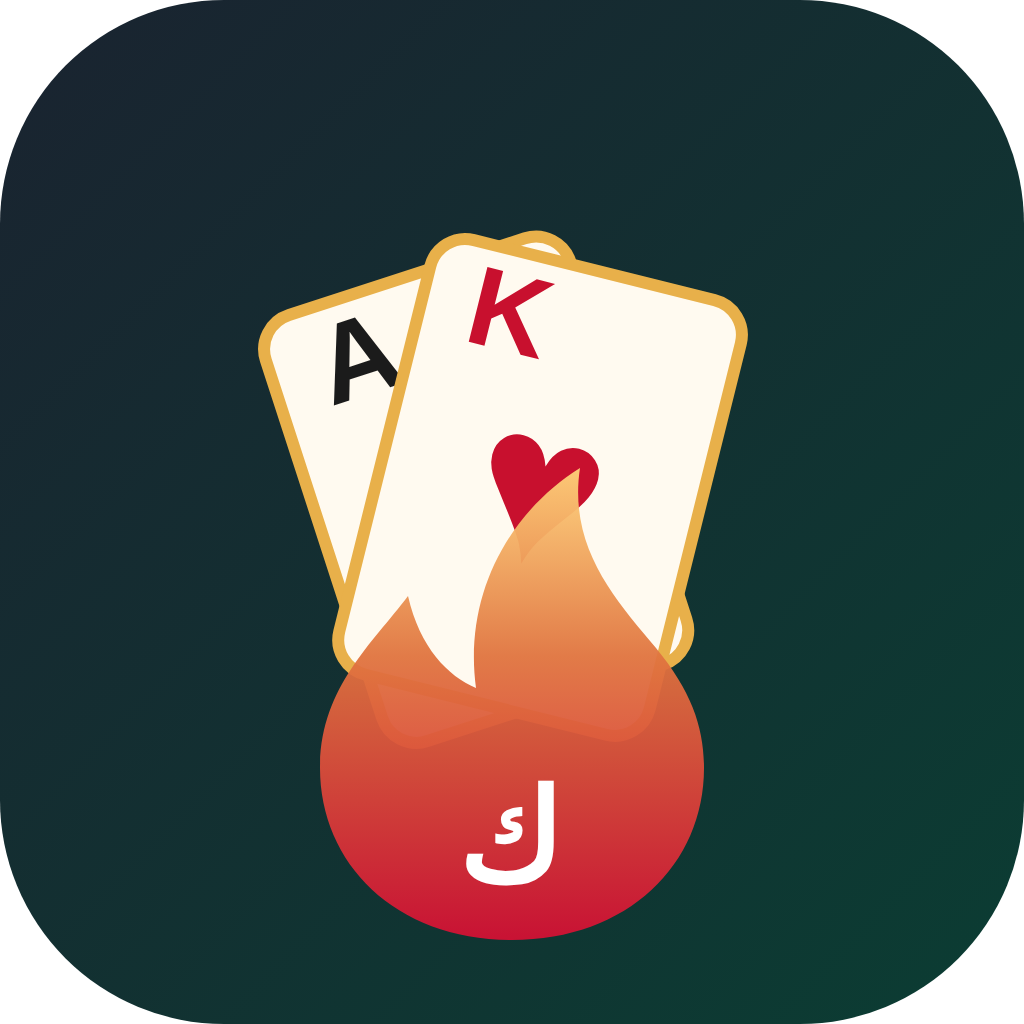
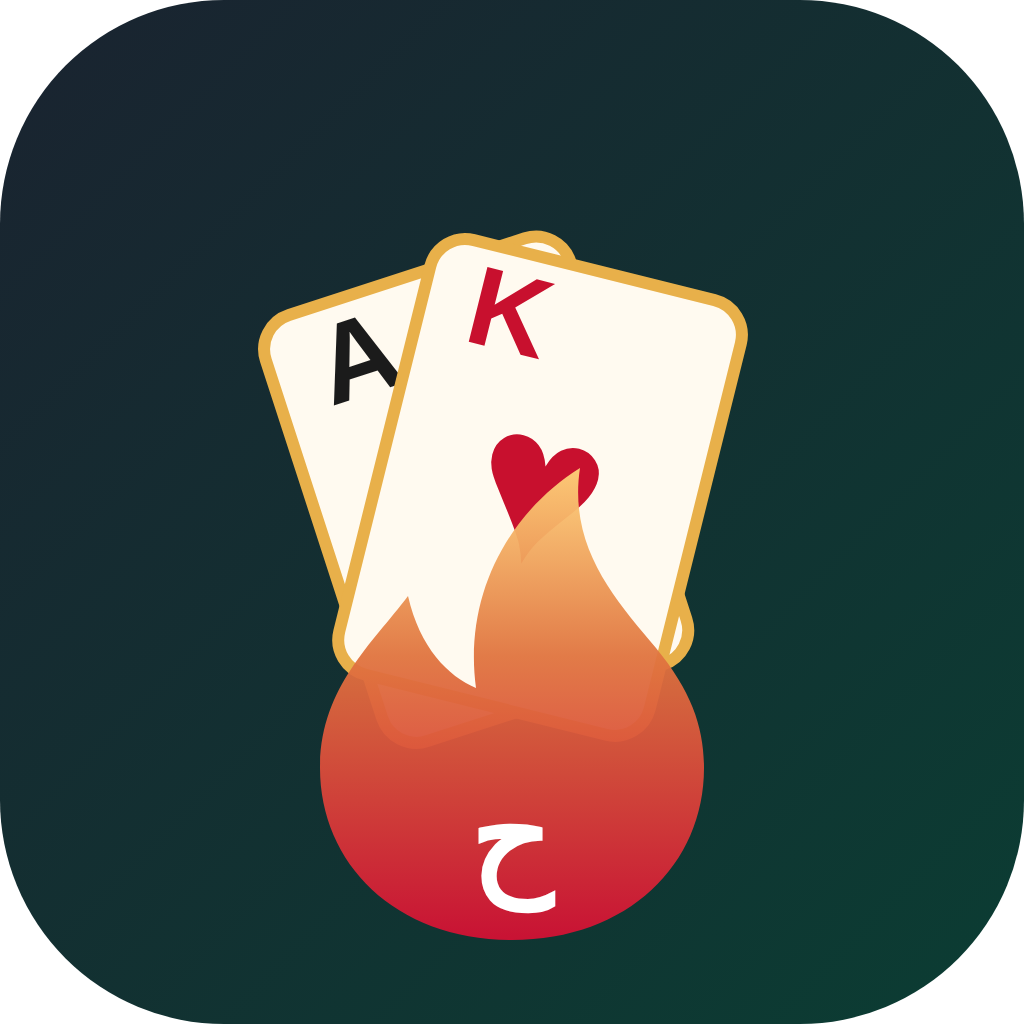
Rename app to حريق قدللة
Claude-Session: https://claude.ai/code/session_01NgcjBUPisNYz6LTNJDf4r9

Changed region(s): [[0.4375, 0.75, 0.5625, 0.9062]]

diff --git a/koshteena/public/style.css b/koshteena/public/style.css
@@ -1,4 +1,4 @@
-/* كوشتينة – الحريق السوداني | هوية سودانية عصرية */
+/* حريق قدللة – الكوتشينة السودانية | هوية سودانية عصرية */
 :root {
   --night: #10161f;
   --night-2: #1a2330;
@@ -76,7 +76,7 @@ input { font: inherit; }
 .logo { text-align: center; margin-top: 2vh; }
 .logo-fan { position: relative; width: 190px; height: 130px; margin: 0 auto 6px; }
 .logo-fan .card { position: absolute; left: 50%; bottom: 0; transform-origin: 50% 120%; --cw: 66px; }
-.logo h1 { font-family: 'Reem Kufi', 'Cairo', sans-serif; font-size: 54px; margin: 0; line-height: 1.1; color: var(--gold-2); text-shadow: 0 3px 0 #7a4a10, 0 8px 30px rgba(232, 176, 74, .35); letter-spacing: 1px; }
+.logo h1 { font-family: 'Reem Kufi', 'Cairo', sans-serif; font-size: 46px; margin: 0; line-height: 1.15; white-space: nowrap; color: var(--gold-2); text-shadow: 0 3px 0 #7a4a10, 0 8px 30px rgba(232, 176, 74, .35); letter-spacing: 1px; }
 .logo .sub { font-size: 20px; font-weight: 800; color: var(--sand); margin-top: 2px; }
 .logo .sub b { color: var(--clay-2); }
 .flag-line { height: 5px; width: 140px; margin: 10px auto 0; border-radius: 3px; background: linear-gradient(90deg, var(--red) 0 25%, #fff 25% 50%, #111 50% 75%, var(--green) 75%); }
@@ -133,7 +133,7 @@ input { font: inherit; }
   background-size: auto, auto, auto, 30% 21%;
   box-shadow: inset 0 0 0 3px #f6efe3, inset 0 0 0 5px var(--gold), 0 4px 10px rgba(0, 0, 0, .35);
 }
-.card .back::after { content: 'ك'; position: absolute; inset: 0; display: grid; place-items: center; font-family: 'Reem Kufi', serif; font-weight: 900; color: #5a1010; font-size: calc(var(--cw) * .26); }
+.card .back::after { content: 'ح'; position: absolute; inset: 0; display: grid; place-items: center; font-family: 'Reem Kufi', serif; font-weight: 900; color: #5a1010; font-size: calc(var(--cw) * .26); }
 .card.down { transform: rotateY(180deg); }
 .card .corner { position: absolute; display: flex; flex-direction: column; align-items: center; line-height: .95; font-weight: 900; }
 .card .corner .r { font-size: calc(var(--cw) * .26); letter-spacing: -1px; }
@@ -322,3 +322,4 @@ input { font: inherit; }
 .home-menu input, .join-row input, .name-field input { min-width: 0; width: 100%; }
 .join-row .btn { flex: none; }
 [hidden] { display: none !important; }
+a.btn { color: inherit; }

diff --git a/koshteena/public/app.js b/koshteena/public/app.js
@@ -1,4 +1,4 @@
-// كوشتينة – الحريق السوداني | الواجهة
+// حريق قدللة – الكوتشينة السودانية | الواجهة
 import { analyzeMeld, isJoker, rankLabel, SUIT_SYMBOL, penaltyValue, DEFAULT_SETTINGS } from './shared/engine.js';
 import { bestPlan, jokerSwapTarget, LEVELS } from './shared/ai.js';
 import { QUICK_PHRASES, EMOJIS } from './shared/match.js';
@@ -284,10 +284,10 @@ function inviteLink() {
   return `${base.replace(/\/$/, '')}/?room=${S.view.room.code}`;
 }
 function inviteText() {
-  return `تعال نلعب حريق في كوشتينة 🃏🔥\nكود الغرفة: ${S.view.room.code}\n${inviteLink()}`;
+  return `تعال نلعب حريق قدللة 🃏🔥\nكود الغرفة: ${S.view.room.code}\n${inviteLink()}`;
 }
 $('#shareBtn').onclick = async () => {
-  if (navigator.share) { try { await navigator.share({ title: 'كوشتينة – الحريق السوداني', text: inviteText() }); } catch {} }
+  if (navigator.share) { try { await navigator.share({ title: 'حريق قدللة – الكوتشينة السودانية', text: inviteText() }); } catch {} }
   else copyInvite();
 };
 $('#waBtn').onclick = () => window.open('https://wa.me/?text=' + encodeURIComponent(inviteText()), '_blank');

diff --git a/koshteena/public/index.html b/koshteena/public/index.html
@@ -6,8 +6,8 @@
   <meta name="theme-color" content="#10161f">
   <meta name="apple-mobile-web-app-capable" content="yes">
   <meta name="apple-mobile-web-app-status-bar-style" content="black-translucent">
-  <meta name="description" content="كوشتينة – الحريق السوداني: العب الحريق مع أصحابك أونلاين أو ضد الكمبيوتر">
-  <title>كوشتينة – الحريق السوداني</title>
+  <meta name="description" content="حريق قدللة – الكوتشينة السودانية: العب الحريق مع أصحابك أونلاين أو ضد الكمبيوتر">
+  <title>حريق قدللة – الكوتشينة السودانية</title>
   <link rel="manifest" href="manifest.webmanifest">
   <link rel="icon" href="icon.svg" type="image/svg+xml">
   <link rel="apple-touch-icon" href="icon.svg">
@@ -22,8 +22,8 @@
 <section id="home" class="screen pattern active">
   <div class="logo">
     <div class="logo-fan" id="logoFan"></div>
-    <h1>كوشتينة</h1>
-    <div class="sub">الحريق <b>السوداني</b> 🔥</div>
+    <h1>حريق قدللة</h1>
+    <div class="sub">الكوتشينة <b>السودانية</b> 🔥</div>
     <div class="flag-line"></div>
   </div>
 

diff --git a/koshteena/server/index.js b/koshteena/server/index.js
@@ -1,4 +1,4 @@
-// خادم كوشتينة: ملفات الواجهة + WebSocket للغرف + جدول الترتيب
+// خادم حريق قدللة: ملفات الواجهة + WebSocket للغرف + جدول الترتيب
 import http from 'node:http';
 import fs from 'node:fs';
 import path from 'node:path';
@@ -224,5 +224,5 @@ setInterval(() => {
 }, 30000).unref();
 
 server.listen(PORT, () => {
-  console.log(`🃏 كوشتينة – الحريق السوداني شغال على http://localhost:${PORT}`);
+  console.log(`🃏 حريق قدللة – الكوتشينة السودانية شغال على http://localhost:${PORT}`);
 });

diff --git a/koshteena/shared/engine.js b/koshteena/shared/engine.js
@@ -1,4 +1,4 @@
-// كوشتينة – الحريق السوداني
+// حريق قدللة – الكوتشينة السودانية
 // محرك القواعد: الورق، التحقق من التشكيلات (سيري/بنت)، الجولة، الحساب.
 // يُستخدم في الخادم وفي المتصفح (وضع اللعب ضد الكمبيوتر) بنفس الكود.
 

diff --git a/koshteena/README.md b/koshteena/README.md
@@ -1,4 +1,4 @@
-# 🃏 كوشتينة – الحريق السوداني
+# 🃏 حريق قدللة – الكوتشينة السودانية
 
 ## ⚡ جاهز للعب هسه
 
